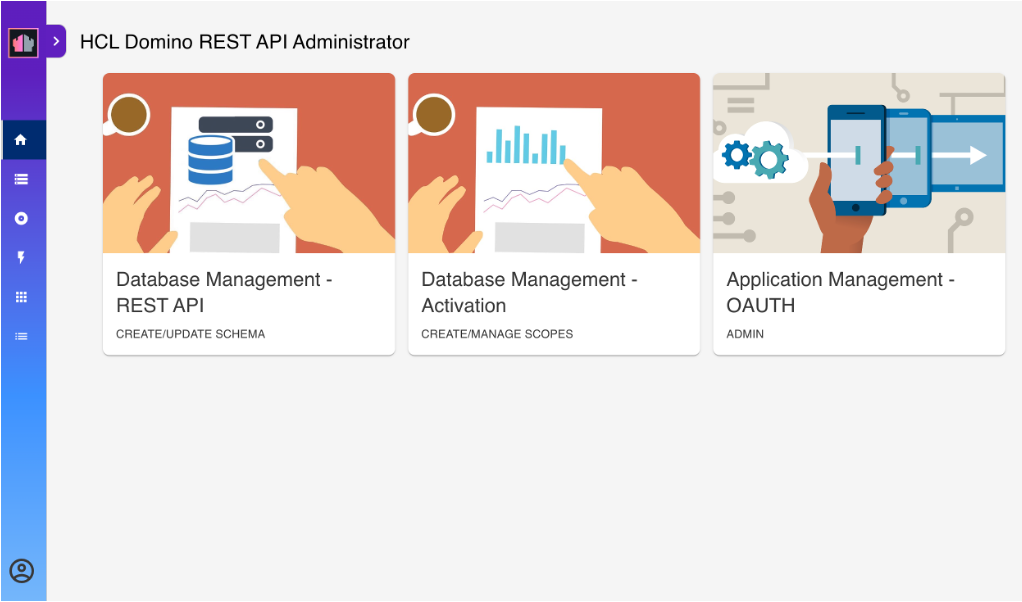
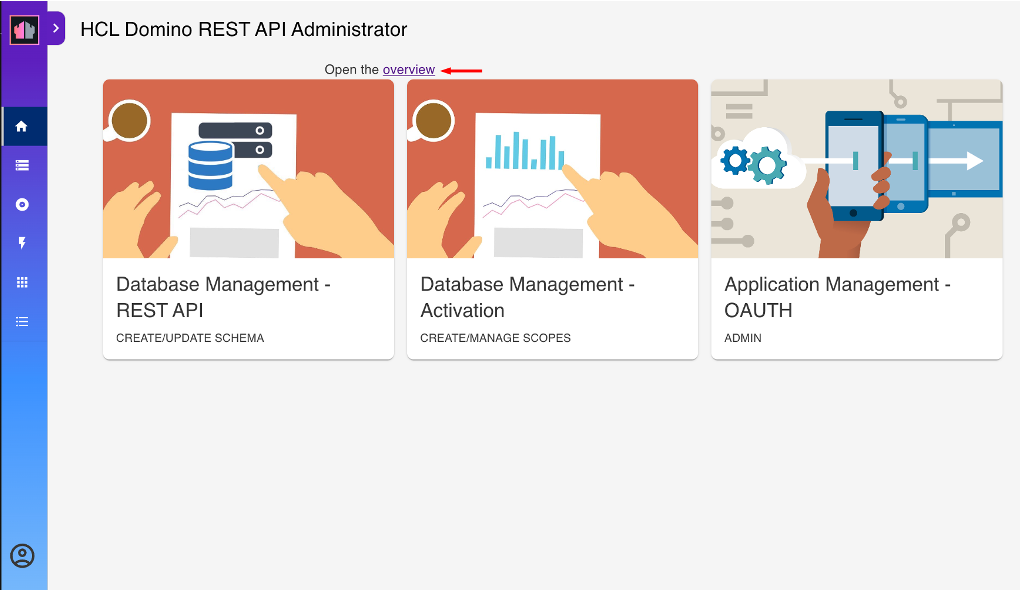
DRAPI v1.1.2 updates

diff --git a/docs/references/whatisnew.md b/docs/references/whatisnew.md
@@ -15,11 +15,29 @@ The section provides information on the latest features, improvements, and resol
 
     **New features**
 
+    - Added the console command `tell restapi refresh` that refreshes Domino REST API to implement a new configuration when executed on the Domino console.
+
     **Improvements**
+
+    - Added an *Overview* link on the **Admin UI** landing page that opens the Domino REST API functional diagram when clicked. Clicking parts of the functional diagram directs you to corresponding documentation topics for easier navigation.
 
     **Resolved issues**
 
     **Others**
+
+    - Moved the `GET webdav-v1/login/idpList` endpoint from WebDAV OpenAPI to Basis OpenAPI and renamed it to `GET v1/auth/idpList` endpoint. Added the **configFor** query parameter as a required parameter of the endpoint to specify what external IdP to retrieve. 
+
+    - Installer jar files:
+	    - For Domino 14: *restapiInstall-r14.jar*
+	    - For Domino 12: *restapiInstall-r12.jar*
+
+    - Docker image version for docker compose .env file (CONTAINER_IMAGE):
+        - For Domino 14: *domino-rest-api:1.1.2-r14*
+        - For Domino 12: *domino-rest-api:1.1.2-r12*  
+        
+    - Docker image version for docker compose .env file from Harbor:
+        - For Domino 14: *hclcr.io/domino/restapi:1.1.2-r14*
+        - For Domino 12: *hclcr.io/domino/restapi:1.1.2-r12* 
 
 
 ??? info "v1.1.1 - What's new or changed"

diff --git a/docs/tutorial/adminui.md b/docs/tutorial/adminui.md
@@ -25,6 +25,9 @@ A successful login would lead to this landing page:
 
 ![Landing Page](../assets/images/AdminLanding.png)
 
+!!!tip
+    Starting with the Domino REST API v1.1.2 release, you can click **Overview** on the landing page, indicated by the <span style="color:red">red arrow</span> in the image, to open the Domino REST API functional diagram. Clicking parts of the functional diagram directs you to corresponding topics in the documentation.
+
 ## List available schemas
 
 Click **Database Management - Rest API** in the landing page. This opens the **Schema Management** page.

diff --git a/docs/references/usingdominorestapi/restapitask.md b/docs/references/usingdominorestapi/restapitask.md
@@ -22,6 +22,7 @@ Once the restapi task is loaded in the Domino console, you can use the following
 |`tell restapi [show] info`|Show loaded components.|
 |`tell restapi [show] config`|Show current configuration.|
 |`tell restapi [show] status`|Show version information and state.|
+|`tell restapi refreh`|Refreshes Domino REST API with new configuration.|
 |`tell restapi refresh cache [database] [application]`|Refreshes Domino REST API's database and application cache. Leave off optional parameters for both.|
 |`tell restapi idpstatus`|Show state of configured identity providers.|
 
